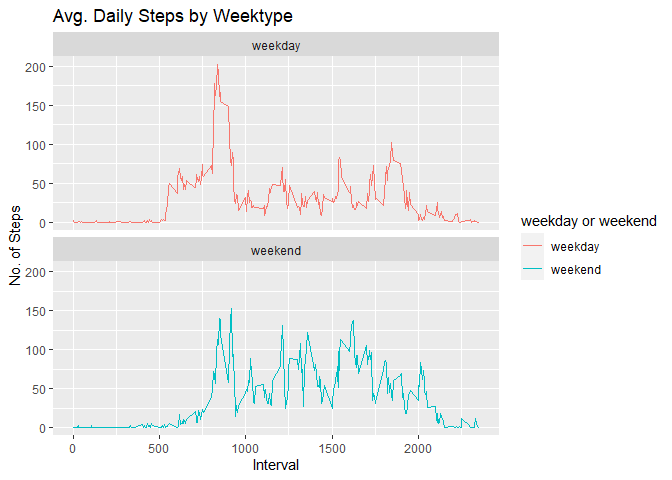
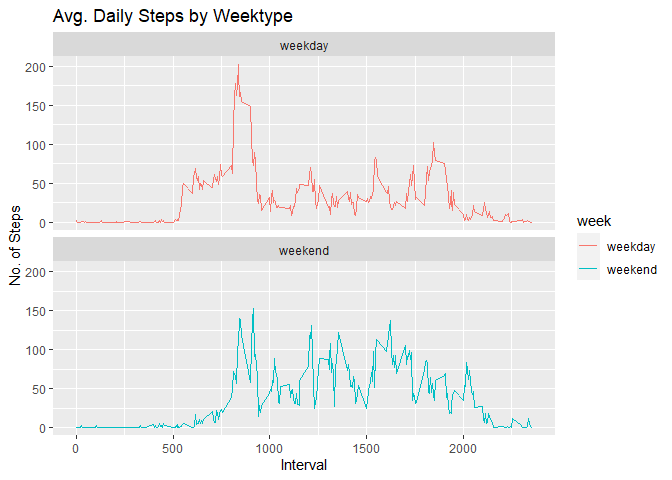
Update

diff --git a/project.html b/project.html
@@ -474,34 +474,34 @@ steps[, .(Mean_Steps = mean(steps), Median_Steps = median(steps))]</code></pre>
 <div id="are-there-differences-in-activity-patterns-between-weekdays-and-weekends" class="section level2">
 <h2>Are there differences in activity patterns between weekdays and weekends?</h2>
 <ol style="list-style-type: decimal">
-<li>Create a new factor variable in the dataset with two levels – “weekday” and “weekend” indicating whether a given date is a weekday or weekend day.</li>
+<li>Create a new factor variable in the dataset with two levels – “weekday” and “weekend” indicating whether a given date is a weekday or weekend.</li>
 </ol>
 <pre class="r"><code>table[, date := as.POSIXct(date, format = &quot;%Y-%m-%d&quot;)]
-table[, `Day of Week`:= weekdays(x = date)]
-table[grepl(pattern = &quot;Monday|Tuesday|Wednesday|Thursday|Friday&quot;, x = `Day of Week`), &quot;weekday or weekend&quot;] &lt;- &quot;weekday&quot;
-table[grepl(pattern = &quot;Saturday|Sunday&quot;, x = `Day of Week`), &quot;weekday or weekend&quot;] &lt;- &quot;weekend&quot;
-table[, `weekday or weekend` := as.factor(`weekday or weekend`)]
+table[, `day`:= weekdays(x = date)]
+table[grepl(pattern = &quot;Monday|Tuesday|Wednesday|Thursday|Friday&quot;, x = `day`), &quot;week&quot;] &lt;- &quot;weekday&quot;
+table[grepl(pattern = &quot;Saturday|Sunday&quot;, x = `day`), &quot;week&quot;] &lt;- &quot;weekend&quot;
+table[, `week` := as.factor(`week`)]
 head(table, 10)</code></pre>
-<pre><code>##     steps       date interval Day of Week weekday or weekend
-##  1:     0 2012-10-01        0      Monday            weekday
-##  2:     0 2012-10-01        5      Monday            weekday
-##  3:     0 2012-10-01       10      Monday            weekday
-##  4:     0 2012-10-01       15      Monday            weekday
-##  5:     0 2012-10-01       20      Monday            weekday
-##  6:     0 2012-10-01       25      Monday            weekday
-##  7:     0 2012-10-01       30      Monday            weekday
-##  8:     0 2012-10-01       35      Monday            weekday
-##  9:     0 2012-10-01       40      Monday            weekday
-## 10:     0 2012-10-01       45      Monday            weekday</code></pre>
+<pre><code>##     steps       date interval    day    week
+##  1:     0 2012-10-01        0 Monday weekday
+##  2:     0 2012-10-01        5 Monday weekday
+##  3:     0 2012-10-01       10 Monday weekday
+##  4:     0 2012-10-01       15 Monday weekday
+##  5:     0 2012-10-01       20 Monday weekday
+##  6:     0 2012-10-01       25 Monday weekday
+##  7:     0 2012-10-01       30 Monday weekday
+##  8:     0 2012-10-01       35 Monday weekday
+##  9:     0 2012-10-01       40 Monday weekday
+## 10:     0 2012-10-01       45 Monday weekday</code></pre>
 <ol start="2" style="list-style-type: decimal">
 <li>Make a panel plot containing a time series plot of the 5-minute interval (x-axis) and the average number of steps taken, averaged across all weekday days or weekend days (y-axis). See the README file in the GitHub repository to see an example of what this plot should look like using simulated data.</li>
 </ol>
-<pre class="r"><code>intervals &lt;- table[, c(lapply(.SD, mean, na.rm = TRUE)), .SDcols = c(&quot;steps&quot;), by = .(interval, `weekday or weekend`)] 
+<pre class="r"><code>intervals &lt;- table[, c(lapply(.SD, mean, na.rm = TRUE)), .SDcols = c(&quot;steps&quot;), by = .(interval, `week`)] 
 
-ggplot(intervals , aes(x = interval , y = steps, color=`weekday or weekend`)) + geom_line() + 
+ggplot(intervals , aes(x = interval , y = steps, color=`week`)) + geom_line() + 
   labs(title = &quot;Avg. Daily Steps by Weektype&quot;, x = &quot;Interval&quot;, y = &quot;No. of Steps&quot;) + 
-  facet_wrap(~`weekday or weekend` , ncol = 1, nrow=2)</code></pre>
[1 lines of base64/hex data omitted]
+  facet_wrap(~`week` , ncol = 1, nrow=2)</code></pre>
[1 lines of base64/hex data omitted]
 </div>
 
 

diff --git a/project.md b/project.md
@@ -168,41 +168,41 @@ ggplot(steps, aes(x = steps)) +
 
 ## Are there differences in activity patterns between weekdays and weekends?
 
-1. Create a new factor variable in the dataset with two levels – “weekday” and “weekend” indicating whether a given date is a weekday or weekend day.  
+1. Create a new factor variable in the dataset with two levels – “weekday” and “weekend” indicating whether a given date is a weekday or weekend.  
 
 
 ```r
 table[, date := as.POSIXct(date, format = "%Y-%m-%d")]
-table[, `Day of Week`:= weekdays(x = date)]
-table[grepl(pattern = "Monday|Tuesday|Wednesday|Thursday|Friday", x = `Day of Week`), "weekday or weekend"] <- "weekday"
-table[grepl(pattern = "Saturday|Sunday", x = `Day of Week`), "weekday or weekend"] <- "weekend"
-table[, `weekday or weekend` := as.factor(`weekday or weekend`)]
+table[, `day`:= weekdays(x = date)]
+table[grepl(pattern = "Monday|Tuesday|Wednesday|Thursday|Friday", x = `day`), "week"] <- "weekday"
+table[grepl(pattern = "Saturday|Sunday", x = `day`), "week"] <- "weekend"
+table[, `week` := as.factor(`week`)]
 head(table, 10)
 ```
 
 ```
-##     steps       date interval Day of Week weekday or weekend
-##  1:     0 2012-10-01        0      Monday            weekday
-##  2:     0 2012-10-01        5      Monday            weekday
-##  3:     0 2012-10-01       10      Monday            weekday
-##  4:     0 2012-10-01       15      Monday            weekday
-##  5:     0 2012-10-01       20      Monday            weekday
-##  6:     0 2012-10-01       25      Monday            weekday
-##  7:     0 2012-10-01       30      Monday            weekday
-##  8:     0 2012-10-01       35      Monday            weekday
-##  9:     0 2012-10-01       40      Monday            weekday
-## 10:     0 2012-10-01       45      Monday            weekday
+##     steps       date interval    day    week
+##  1:     0 2012-10-01        0 Monday weekday
+##  2:     0 2012-10-01        5 Monday weekday
+##  3:     0 2012-10-01       10 Monday weekday
+##  4:     0 2012-10-01       15 Monday weekday
+##  5:     0 2012-10-01       20 Monday weekday
+##  6:     0 2012-10-01       25 Monday weekday
+##  7:     0 2012-10-01       30 Monday weekday
+##  8:     0 2012-10-01       35 Monday weekday
+##  9:     0 2012-10-01       40 Monday weekday
+## 10:     0 2012-10-01       45 Monday weekday
 ```
 
 2. Make a panel plot containing a time series plot of the 5-minute interval (x-axis) and the average number of steps taken, averaged across all weekday days or weekend days (y-axis). See the README file in the GitHub repository to see an example of what this plot should look like using simulated data.  
 
 
 ```r
-intervals <- table[, c(lapply(.SD, mean, na.rm = TRUE)), .SDcols = c("steps"), by = .(interval, `weekday or weekend`)] 
+intervals <- table[, c(lapply(.SD, mean, na.rm = TRUE)), .SDcols = c("steps"), by = .(interval, `week`)] 
 
-ggplot(intervals , aes(x = interval , y = steps, color=`weekday or weekend`)) + geom_line() + 
+ggplot(intervals , aes(x = interval , y = steps, color=`week`)) + geom_line() + 
   labs(title = "Avg. Daily Steps by Weektype", x = "Interval", y = "No. of Steps") + 
-  facet_wrap(~`weekday or weekend` , ncol = 1, nrow=2)
+  facet_wrap(~`week` , ncol = 1, nrow=2)
 ```
 
 ![](figure/unnamed-chunk-13-1.png)<!-- -->
